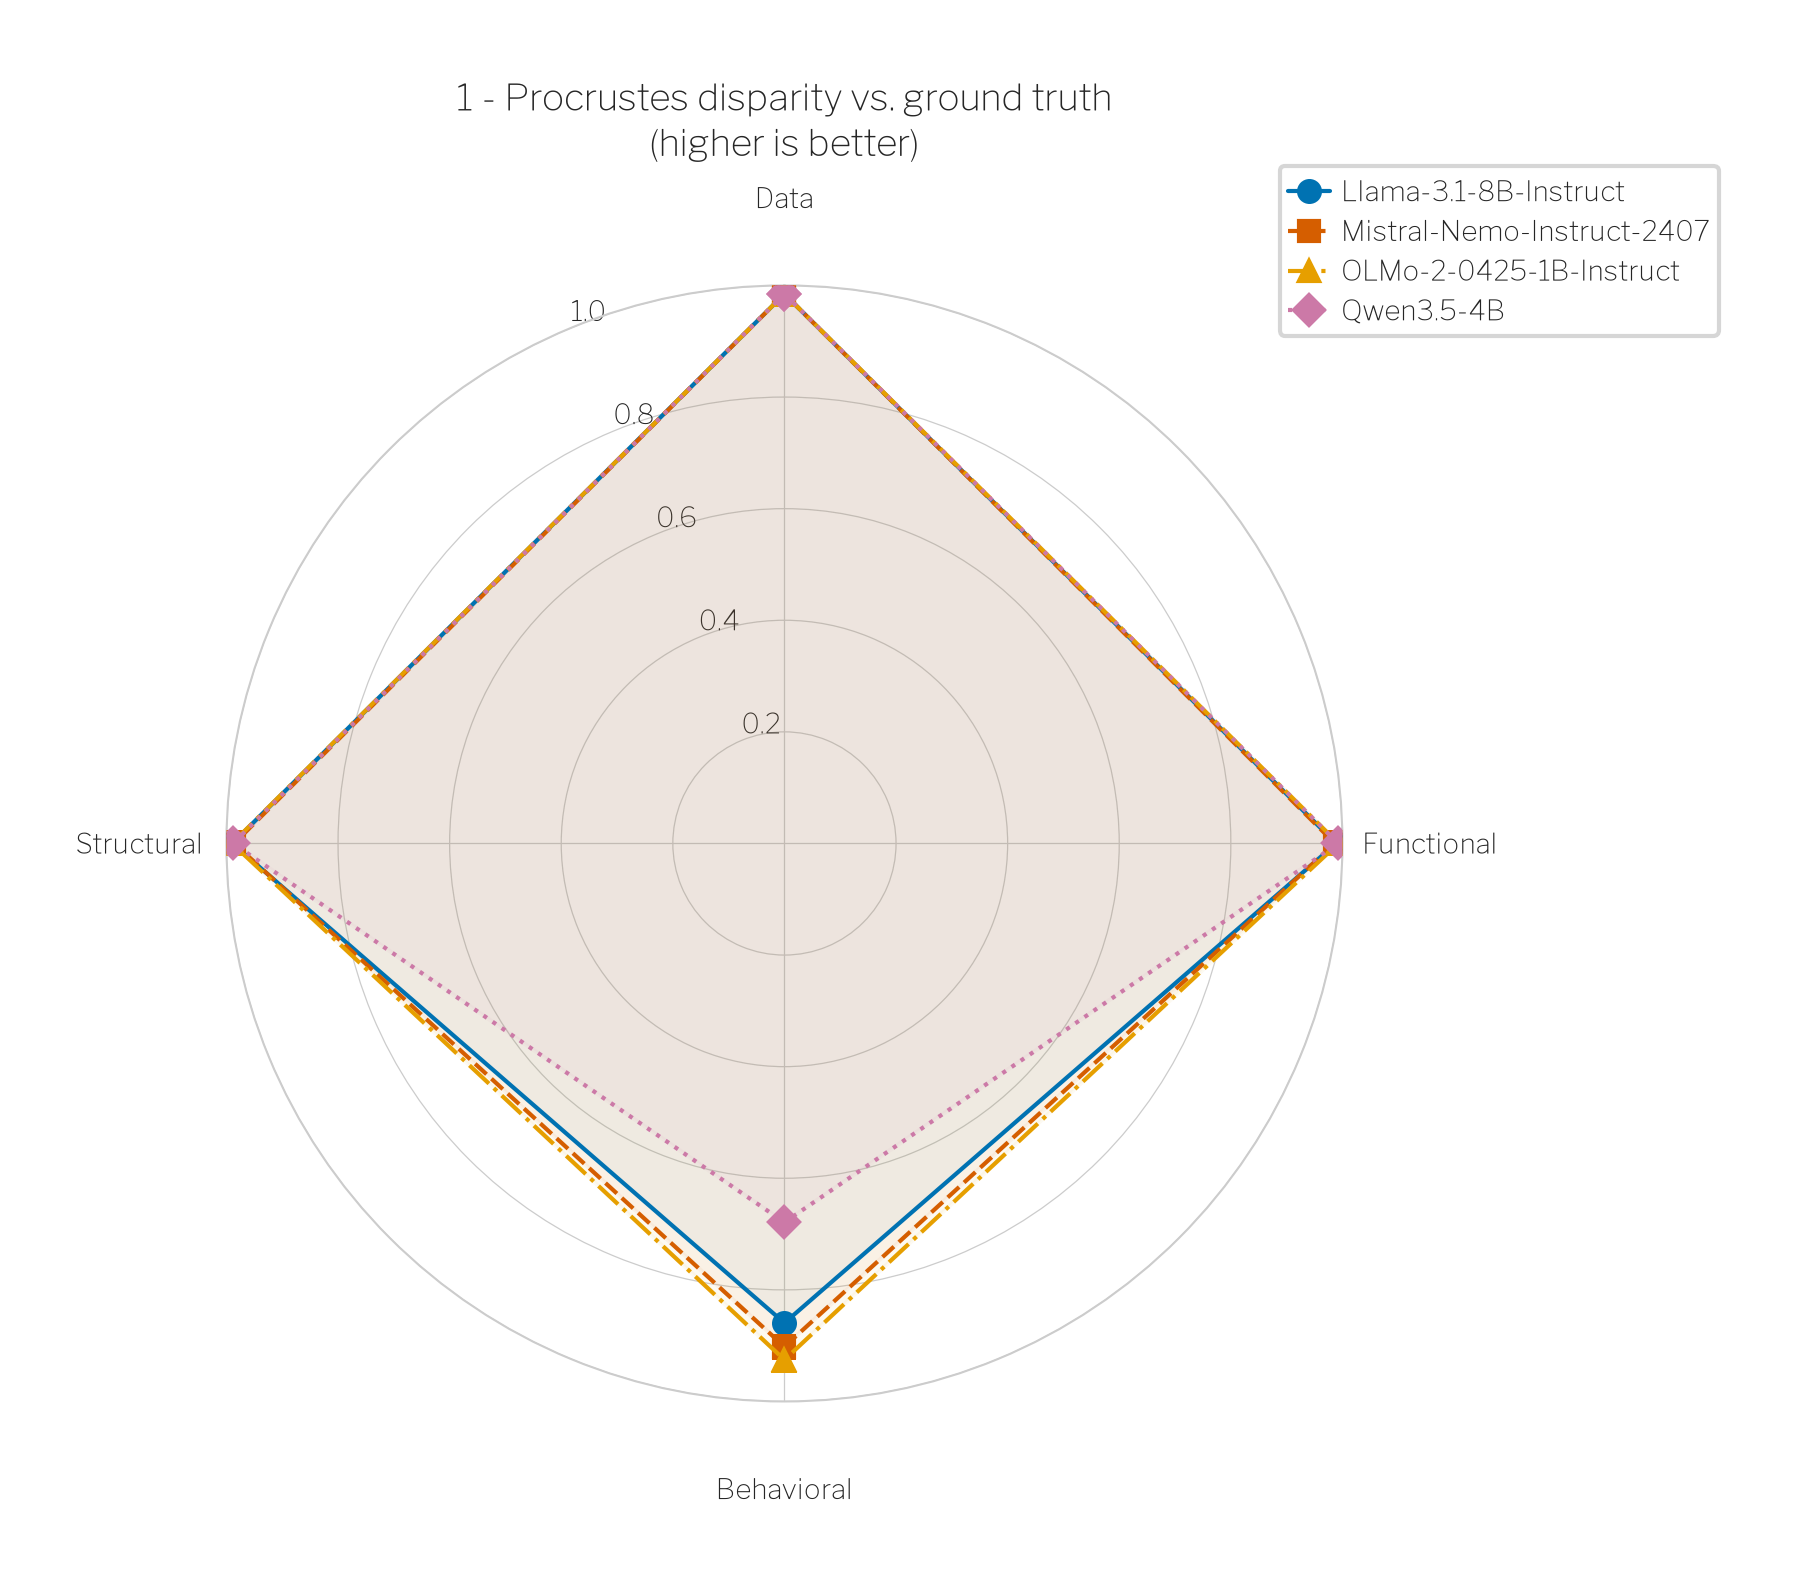
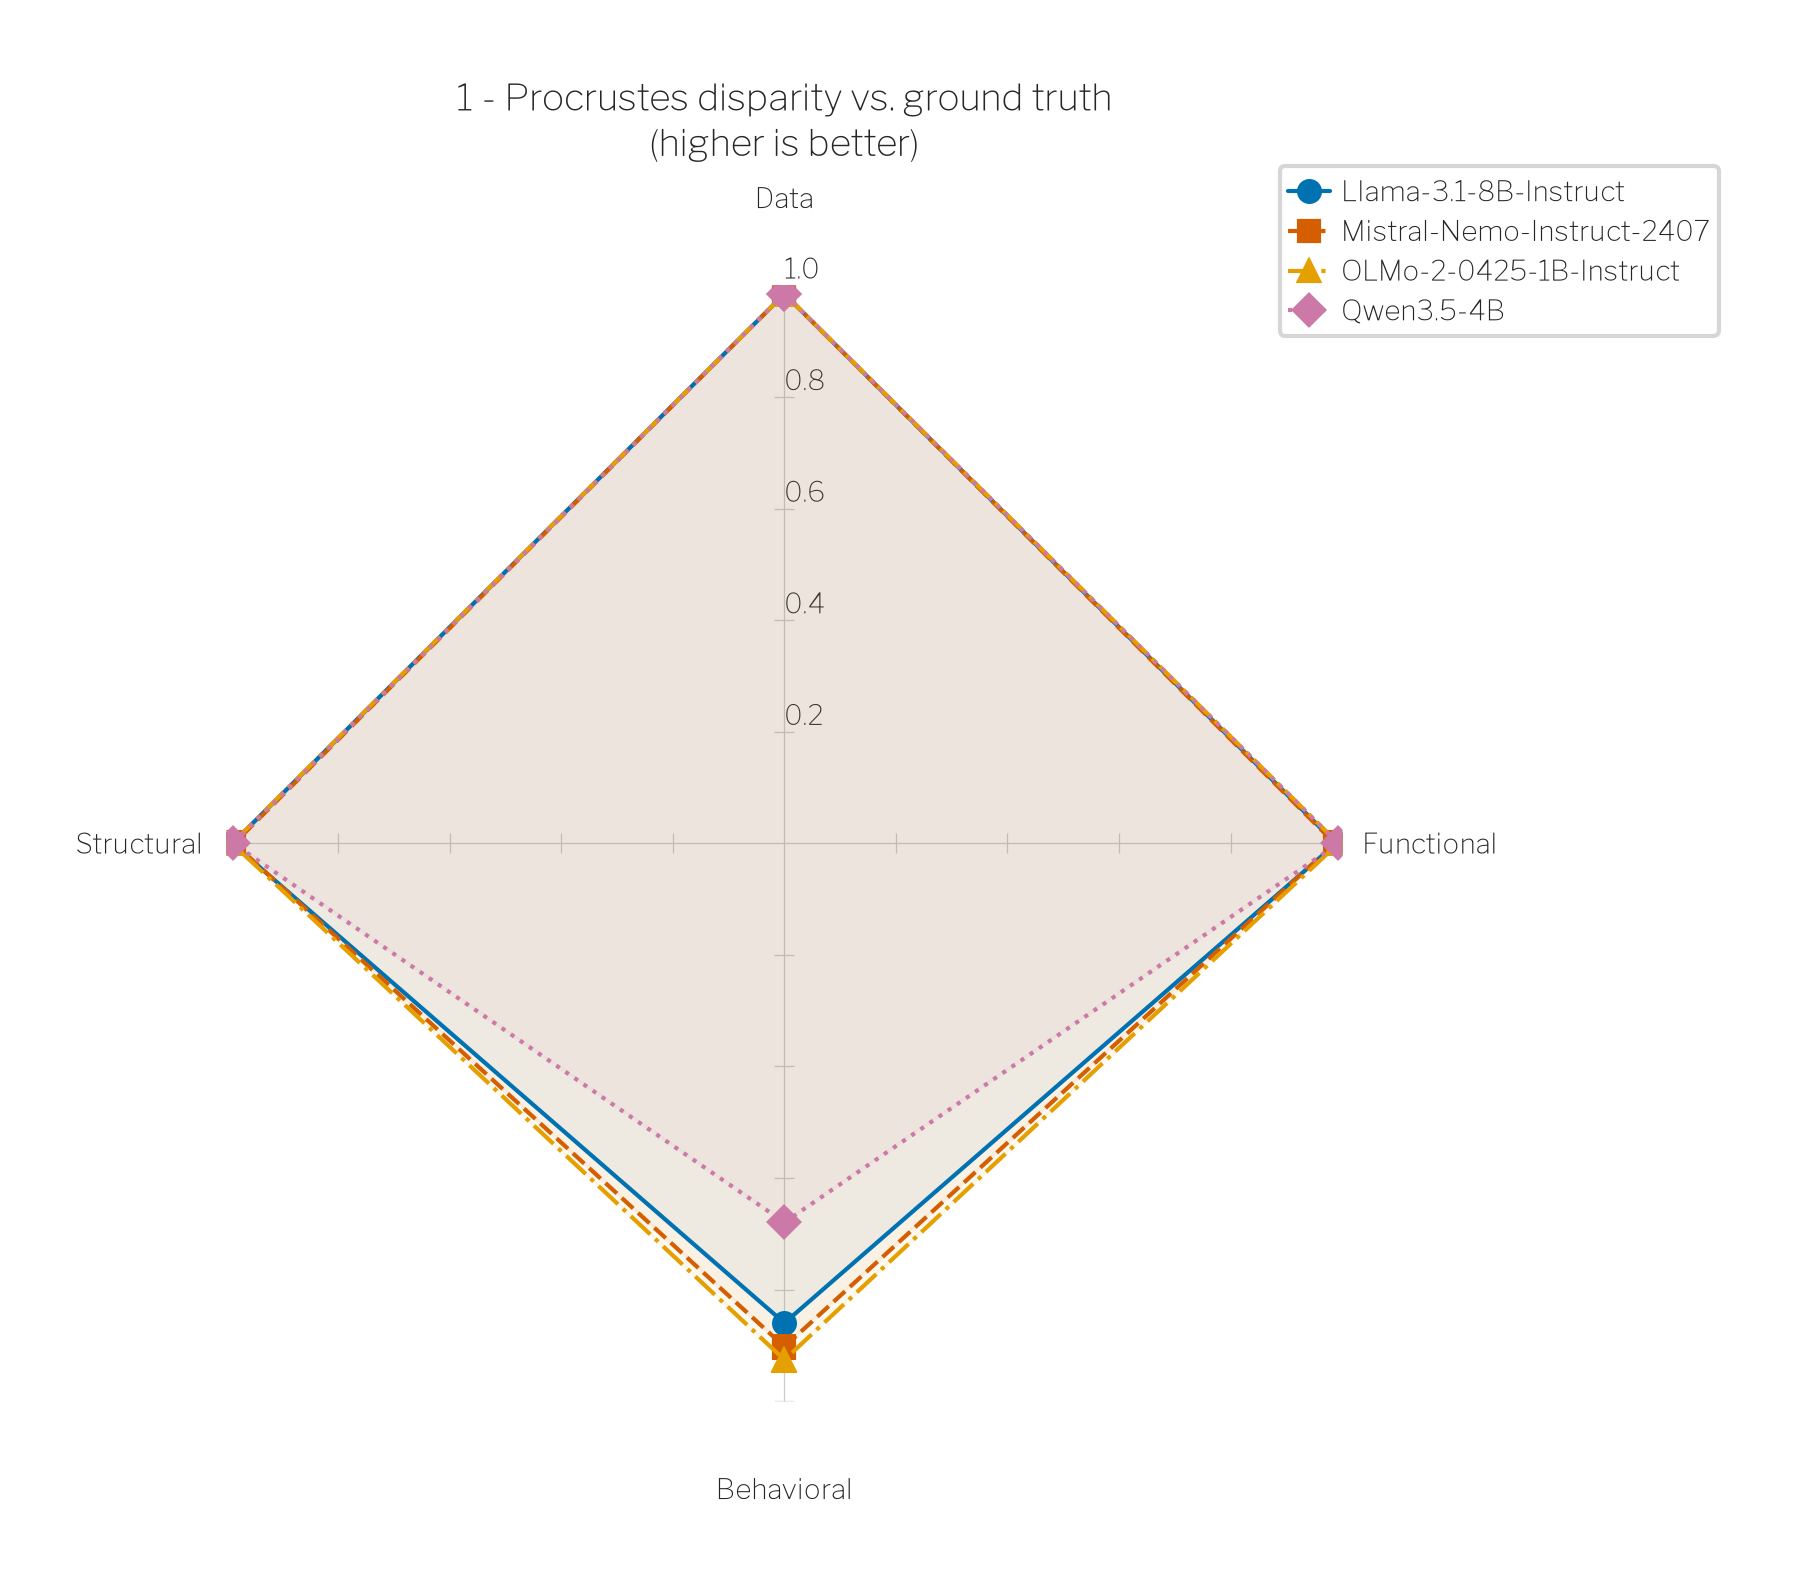
feat(plots): spoke-axis radar style, used by the simplex3 aggregate figures
plot_radar gains spoke_axes=True: instead of concentric rings and a round
outer frame, it draws one straight axis line per spoke with tick marks at the
rticks radii. A tick is a short arc whose angular half-width scales as 1/r, so
every mark comes out the same length on the page.

rlabel_spoke picks the single spoke that carries the numeric tick labels
(default 0, None for none) -- the spokes share one scale, so repeating the
numbers on all four is clutter. tick_len sizes the marks as a fraction of the
radial range.

The aggregate driver turns it on and labels the Data spoke.

Claude-Session: https://claude.ai/code/session_01S6CzwYUHpXsKaw2JNcaddi

Changed region(s): [[0.4373, 0.155, 0.4685, 0.186], [0.3123, 0.186, 0.3436, 0.217]]

diff --git a/src/plots/figures.py b/src/plots/figures.py
@@ -404,6 +404,9 @@ def plot_radar(
     fill_alpha: float = 0.12,
     marker_size: int = 5,
     label_pad: float = 0.0,
+    spoke_axes: bool = False,
+    tick_len: float = 0.018,
+    rlabel_spoke: int | None = 0,
     title: str | None = None,
     legend: bool = True,
     legend_kwargs: dict | None = None,
@@ -421,6 +424,15 @@ def plot_radar(
     *label_pad* pushes the spoke labels outward, in points.  On a full-range
     radar the polygon reaches the outer ring and its markers land on top of the
     labels, so a few points of padding is usually needed.
+
+    *spoke_axes* swaps the default polar grid -- concentric rings plus a round
+    outer frame -- for one straight axis line per spoke, each carrying tick
+    marks at the *rticks* radii.  It reads as a set of shared axes radiating
+    from the centre rather than as a web, which suits a radar whose spokes are
+    unrelated quantities that merely share a scale.  *tick_len* sizes those
+    marks as a fraction of the radial range, and *rlabel_spoke* indexes the one
+    spoke that gets numeric tick labels (``None`` for none) -- repeating the
+    numbers on every spoke only adds clutter, since the scale is shared.
 
     ``NaN`` values are drawn as gaps rather than pulling the polygon to zero.
     Passing *rlim* fixes the radial range, which is what makes two radars
@@ -471,6 +483,9 @@ def plot_radar(
     if rticks is not None:
         ax.set_yticks(rticks)
 
+    if spoke_axes:
+        _draw_spoke_axes(ax, theta, tick_len, rlabel_spoke)
+
     if title:
         ax.set_title(title)
     if legend and any(s.label for s in series):
@@ -480,6 +495,43 @@ def plot_radar(
     if savefig:
         _save(fig, _resolve_savepath(savepath, title))
     return fig, ax
+
+
+def _draw_spoke_axes(ax, theta, tick_len, rlabel_spoke):
+    """Replace a polar axes' rings and frame with one ticked axis per spoke.
+
+    Called by :func:`plot_radar` for ``spoke_axes=True``.  Runs after the data
+    and the limits are set, because every length here is measured against the
+    final radial range.
+    """
+    lo, hi = ax.get_ylim()
+    ticks = [t for t in ax.get_yticks() if lo <= t <= hi]
+    #   Line colour and width follow whatever the active style gives the grid,
+    #   so these hand-drawn axes still match the rest of the figure.
+    color = plt.rcParams["grid.color"]
+    lw = plt.rcParams["grid.linewidth"]
+
+    ax.grid(False)
+    ax.spines["polar"].set_visible(False)
+
+    for t in theta:
+        ax.plot([t, t], [lo, hi], color=color, linewidth=lw,
+                solid_capstyle="butt", zorder=1, clip_on=False)
+        for r in ticks:
+            #   A tick mark is a short arc across its spoke.  Its angular
+            #   half-width has to shrink as the radius grows for every mark to
+            #   come out the same length on the page; at r = 0 there is no
+            #   angle that works, and no room for a mark either.
+            if r <= lo:
+                continue
+            half = tick_len * (hi - lo) / r
+            ax.plot([t - half, t + half], [r, r], color=color, linewidth=lw,
+                    solid_capstyle="butt", zorder=1)
+
+    if rlabel_spoke is None:
+        ax.set_yticklabels([])
+    else:
+        ax.set_rlabel_position(np.rad2deg(theta[rlabel_spoke % len(theta)]))
 
 
 # ── plot_grouped_bars ─────────────────────────────────────────────────────────

diff --git a/figures/simplex3_aggregate/make_figures.py b/figures/simplex3_aggregate/make_figures.py
@@ -168,6 +168,10 @@ def draw_radar(scores, version: str, outdir: Path) -> Path:
         #   Data and 1 - procrustes both sit at ~0.98, so their markers land on
         #   the outer ring; without the pad they cover the spoke labels.
         label_pad=12,
+        #   Straight ticked axes out to each spoke instead of concentric rings,
+        #   numbered once on the Data spoke -- all four share the one scale.
+        spoke_axes=True,
+        rlabel_spoke=labels.index("Data"),
         title=f"{axis_label}\n({direction})",
         savefig=False,
     )
